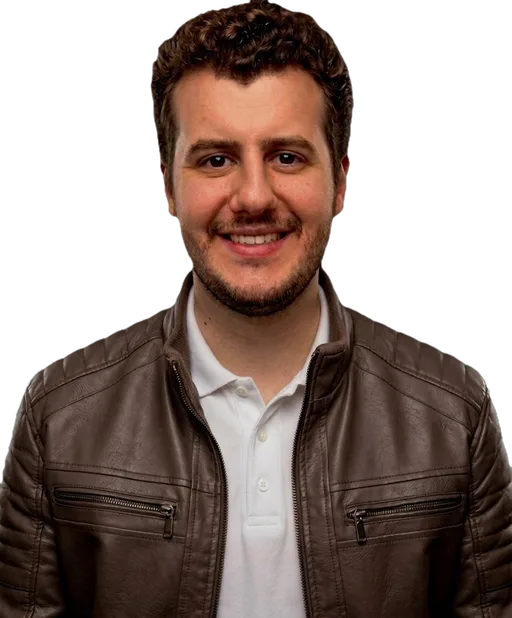
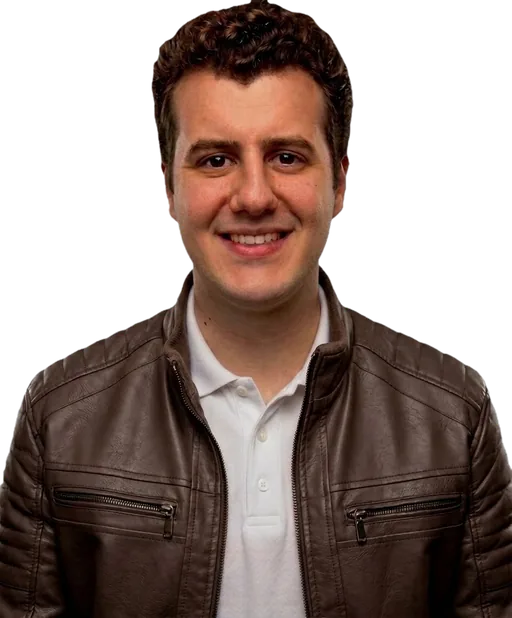
Mudança de felipe_ambrozini para devocional

diff --git a/test/app_test.dart b/test/app_test.dart
@@ -1,22 +1,22 @@
 import 'dart:async';
 
-import 'package:felipe_ambrozini/dados/audio_offline.dart';
-import 'package:felipe_ambrozini/dados/conteudo.dart';
-import 'package:felipe_ambrozini/dados/estado.dart';
-import 'package:felipe_ambrozini/dados/modelos.dart';
-import 'package:felipe_ambrozini/dados/nuvem.dart';
-import 'package:felipe_ambrozini/dados/personas.dart';
-import 'package:felipe_ambrozini/dados/recursos.dart';
-import 'package:felipe_ambrozini/dados/voz.dart';
-import 'package:felipe_ambrozini/main.dart';
-import 'package:felipe_ambrozini/funcoes/datas.dart';
-import 'package:felipe_ambrozini/funcoes/aviso.dart';
-import 'package:felipe_ambrozini/telas/biblia.dart';
-import 'package:felipe_ambrozini/telas/chat.dart';
-import 'package:felipe_ambrozini/widgets/widgets.dart';
-import 'package:felipe_ambrozini/telas/devocional.dart';
-import 'package:felipe_ambrozini/telas/hoje.dart';
-import 'package:felipe_ambrozini/telas/plano.dart';
+import 'package:devocional/dados/audio_offline.dart';
+import 'package:devocional/dados/conteudo.dart';
+import 'package:devocional/dados/estado.dart';
+import 'package:devocional/dados/modelos.dart';
+import 'package:devocional/dados/nuvem.dart';
+import 'package:devocional/dados/personas.dart';
+import 'package:devocional/dados/recursos.dart';
+import 'package:devocional/dados/voz.dart';
+import 'package:devocional/main.dart';
+import 'package:devocional/funcoes/datas.dart';
+import 'package:devocional/funcoes/aviso.dart';
+import 'package:devocional/telas/biblia.dart';
+import 'package:devocional/telas/chat.dart';
+import 'package:devocional/widgets/widgets.dart';
+import 'package:devocional/telas/devocional.dart';
+import 'package:devocional/telas/hoje.dart';
+import 'package:devocional/telas/plano.dart';
 import 'package:flutter/material.dart';
 import 'package:flutter/services.dart';
 import 'package:flutter_test/flutter_test.dart';

diff --git a/test/biblioteca_test.dart b/test/biblioteca_test.dart
@@ -1,17 +1,17 @@
 import 'dart:convert';
 import 'dart:io';
 
-import 'package:felipe_ambrozini/dados/biblioteca.dart';
-import 'package:felipe_ambrozini/dados/config_admin.dart';
-import 'package:felipe_ambrozini/dados/estado.dart';
-import 'package:felipe_ambrozini/dados/leitura_de_livros.dart';
-import 'package:felipe_ambrozini/dados/modelos.dart';
-import 'package:felipe_ambrozini/dados/recursos.dart';
-import 'package:felipe_ambrozini/estilo/espacamento.dart';
-import 'package:felipe_ambrozini/telas/biblioteca.dart';
-import 'package:felipe_ambrozini/telas/leitor_de_livro.dart';
-import 'package:felipe_ambrozini/telas/livro.dart';
-import 'package:felipe_ambrozini/widgets/widgets.dart';
+import 'package:devocional/dados/biblioteca.dart';
+import 'package:devocional/dados/config_admin.dart';
+import 'package:devocional/dados/estado.dart';
+import 'package:devocional/dados/leitura_de_livros.dart';
+import 'package:devocional/dados/modelos.dart';
+import 'package:devocional/dados/recursos.dart';
+import 'package:devocional/estilo/espacamento.dart';
+import 'package:devocional/telas/biblioteca.dart';
+import 'package:devocional/telas/leitor_de_livro.dart';
+import 'package:devocional/telas/livro.dart';
+import 'package:devocional/widgets/widgets.dart';
 import 'package:flutter/material.dart';
 import 'package:flutter/services.dart';
 import 'package:flutter_test/flutter_test.dart';

diff --git a/test/reproducao_continua_test.dart b/test/reproducao_continua_test.dart
@@ -1,14 +1,14 @@
 import 'dart:async';
 import 'dart:typed_data';
 
-import 'package:felipe_ambrozini/controladores/biblia_controlador.dart';
-import 'package:felipe_ambrozini/dados/audio_offline.dart';
-import 'package:felipe_ambrozini/dados/conteudo.dart';
-import 'package:felipe_ambrozini/dados/estado.dart';
-import 'package:felipe_ambrozini/dados/recursos.dart';
-import 'package:felipe_ambrozini/dados/voz.dart';
-import 'package:felipe_ambrozini/funcoes/aviso.dart';
-import 'package:felipe_ambrozini/telas/biblia.dart';
+import 'package:devocional/controladores/biblia_controlador.dart';
+import 'package:devocional/dados/audio_offline.dart';
+import 'package:devocional/dados/conteudo.dart';
+import 'package:devocional/dados/estado.dart';
+import 'package:devocional/dados/recursos.dart';
+import 'package:devocional/dados/voz.dart';
+import 'package:devocional/funcoes/aviso.dart';
+import 'package:devocional/telas/biblia.dart';
 import 'package:flutter/material.dart';
 import 'package:flutter_test/flutter_test.dart';
 import 'package:shared_preferences/shared_preferences.dart';

diff --git a/test/planos_test.dart b/test/planos_test.dart
@@ -1,11 +1,11 @@
-import 'package:felipe_ambrozini/dados/conteudo.dart';
-import 'package:felipe_ambrozini/dados/estado.dart';
-import 'package:felipe_ambrozini/dados/modelos.dart';
-import 'package:felipe_ambrozini/dados/nuvem.dart';
-import 'package:felipe_ambrozini/dados/planos.dart';
-import 'package:felipe_ambrozini/telas/meu_plano.dart';
-import 'package:felipe_ambrozini/telas/novo_plano.dart';
-import 'package:felipe_ambrozini/telas/plano.dart';
+import 'package:devocional/dados/conteudo.dart';
+import 'package:devocional/dados/estado.dart';
+import 'package:devocional/dados/modelos.dart';
+import 'package:devocional/dados/nuvem.dart';
+import 'package:devocional/dados/planos.dart';
+import 'package:devocional/telas/meu_plano.dart';
+import 'package:devocional/telas/novo_plano.dart';
+import 'package:devocional/telas/plano.dart';
 import 'package:flutter/material.dart';
 import 'package:flutter_test/flutter_test.dart';
 import 'package:font_awesome_flutter/font_awesome_flutter.dart';

diff --git a/test/atalhos_test.dart b/test/atalhos_test.dart
@@ -1,10 +1,10 @@
-import 'package:felipe_ambrozini/dados/conteudo.dart';
-import 'package:felipe_ambrozini/dados/estado.dart';
-import 'package:felipe_ambrozini/dados/modelos.dart';
-import 'package:felipe_ambrozini/main.dart';
-import 'package:felipe_ambrozini/telas/biblia.dart';
-import 'package:felipe_ambrozini/telas/busca.dart';
-import 'package:felipe_ambrozini/widgets/widgets.dart';
+import 'package:devocional/dados/conteudo.dart';
+import 'package:devocional/dados/estado.dart';
+import 'package:devocional/dados/modelos.dart';
+import 'package:devocional/main.dart';
+import 'package:devocional/telas/biblia.dart';
+import 'package:devocional/telas/busca.dart';
+import 'package:devocional/widgets/widgets.dart';
 import 'package:flutter/foundation.dart';
 import 'package:flutter/material.dart';
 import 'package:flutter/services.dart';

diff --git a/test/busca_test.dart b/test/busca_test.dart
@@ -1,11 +1,11 @@
 import 'dart:async';
 
-import 'package:felipe_ambrozini/dados/canon.dart';
-import 'package:felipe_ambrozini/dados/conteudo.dart';
-import 'package:felipe_ambrozini/dados/estado.dart';
-import 'package:felipe_ambrozini/telas/busca.dart';
-import 'package:felipe_ambrozini/telas/biblia.dart';
-import 'package:felipe_ambrozini/telas/devocional.dart';
+import 'package:devocional/dados/canon.dart';
+import 'package:devocional/dados/conteudo.dart';
+import 'package:devocional/dados/estado.dart';
+import 'package:devocional/telas/busca.dart';
+import 'package:devocional/telas/biblia.dart';
+import 'package:devocional/telas/devocional.dart';
 import 'package:flutter/material.dart';
 import 'package:flutter_test/flutter_test.dart';
 import 'package:font_awesome_flutter/font_awesome_flutter.dart';

diff --git a/test/controladores_test.dart b/test/controladores_test.dart
@@ -1,8 +1,8 @@
-import 'package:felipe_ambrozini/controladores/novo_plano_controlador.dart';
-import 'package:felipe_ambrozini/controladores/plano_controlador.dart';
-import 'package:felipe_ambrozini/dados/conteudo.dart';
-import 'package:felipe_ambrozini/dados/estado.dart';
-import 'package:felipe_ambrozini/dados/modelos.dart';
+import 'package:devocional/controladores/novo_plano_controlador.dart';
+import 'package:devocional/controladores/plano_controlador.dart';
+import 'package:devocional/dados/conteudo.dart';
+import 'package:devocional/dados/estado.dart';
+import 'package:devocional/dados/modelos.dart';
 import 'package:flutter_test/flutter_test.dart';
 import 'package:shared_preferences/shared_preferences.dart';
 

diff --git a/test/lembretes_test.dart b/test/lembretes_test.dart
@@ -1,8 +1,8 @@
-import 'package:felipe_ambrozini/dados/estado.dart';
-import 'package:felipe_ambrozini/dados/lembretes.dart';
-import 'package:felipe_ambrozini/funcoes/aviso.dart';
-import 'package:felipe_ambrozini/funcoes/lembretes_acoes.dart';
-import 'package:felipe_ambrozini/widgets/widgets.dart';
+import 'package:devocional/dados/estado.dart';
+import 'package:devocional/dados/lembretes.dart';
+import 'package:devocional/funcoes/aviso.dart';
+import 'package:devocional/funcoes/lembretes_acoes.dart';
+import 'package:devocional/widgets/widgets.dart';
 import 'package:flutter/foundation.dart';
 import 'package:flutter/material.dart';
 import 'package:flutter_test/flutter_test.dart';

diff --git a/test/conversador_test.dart b/test/conversador_test.dart
@@ -1,10 +1,10 @@
 import 'dart:async';
 
-import 'package:felipe_ambrozini/dados/conversador.dart';
-import 'package:felipe_ambrozini/dados/estado.dart';
-import 'package:felipe_ambrozini/dados/ia.dart';
-import 'package:felipe_ambrozini/dados/modelos.dart';
-import 'package:felipe_ambrozini/dados/personas.dart';
+import 'package:devocional/dados/conversador.dart';
+import 'package:devocional/dados/estado.dart';
+import 'package:devocional/dados/ia.dart';
+import 'package:devocional/dados/modelos.dart';
+import 'package:devocional/dados/personas.dart';
 import 'package:flutter_test/flutter_test.dart';
 import 'package:shared_preferences/shared_preferences.dart';
 

diff --git a/test/tema_widget_test.dart b/test/tema_widget_test.dart
@@ -1,8 +1,8 @@
-import 'package:felipe_ambrozini/dados/estado.dart';
-import 'package:felipe_ambrozini/dados/modelos.dart';
-import 'package:felipe_ambrozini/main.dart';
-import 'package:felipe_ambrozini/widgets/widgets.dart';
-import 'package:felipe_ambrozini/estilo/cores.dart';
+import 'package:devocional/dados/estado.dart';
+import 'package:devocional/dados/modelos.dart';
+import 'package:devocional/main.dart';
+import 'package:devocional/widgets/widgets.dart';
+import 'package:devocional/estilo/cores.dart';
 import 'package:flutter/material.dart';
 import 'package:flutter_test/flutter_test.dart';
 import 'package:shared_preferences/shared_preferences.dart';

diff --git a/test/faixa_test.dart b/test/faixa_test.dart
@@ -1,8 +1,8 @@
-import 'package:felipe_ambrozini/dados/conteudo.dart';
-import 'package:felipe_ambrozini/dados/estado.dart';
-import 'package:felipe_ambrozini/dados/modelos.dart';
-import 'package:felipe_ambrozini/telas/biblia.dart';
-import 'package:felipe_ambrozini/widgets/faixa.dart';
+import 'package:devocional/dados/conteudo.dart';
+import 'package:devocional/dados/estado.dart';
+import 'package:devocional/dados/modelos.dart';
+import 'package:devocional/telas/biblia.dart';
+import 'package:devocional/widgets/faixa.dart';
 import 'package:flutter/material.dart';
 import 'package:flutter_test/flutter_test.dart';
 import 'package:go_router/go_router.dart';

diff --git a/test/meu_plano_devocionais_test.dart b/test/meu_plano_devocionais_test.dart
@@ -1,7 +1,7 @@
-import 'package:felipe_ambrozini/dados/conteudo.dart';
-import 'package:felipe_ambrozini/dados/estado.dart';
-import 'package:felipe_ambrozini/telas/meu_plano.dart';
-import 'package:felipe_ambrozini/widgets/faixa.dart';
+import 'package:devocional/dados/conteudo.dart';
+import 'package:devocional/dados/estado.dart';
+import 'package:devocional/telas/meu_plano.dart';
+import 'package:devocional/widgets/faixa.dart';
 import 'package:flutter/material.dart';
 import 'package:flutter_test/flutter_test.dart';
 import 'package:shared_preferences/shared_preferences.dart';
